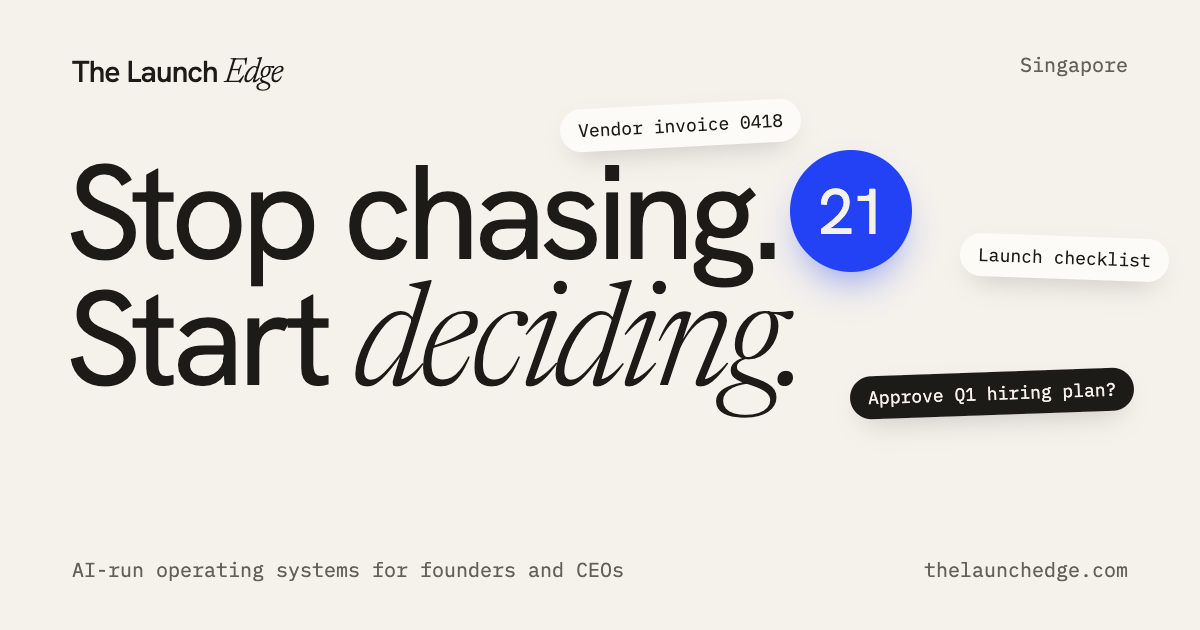
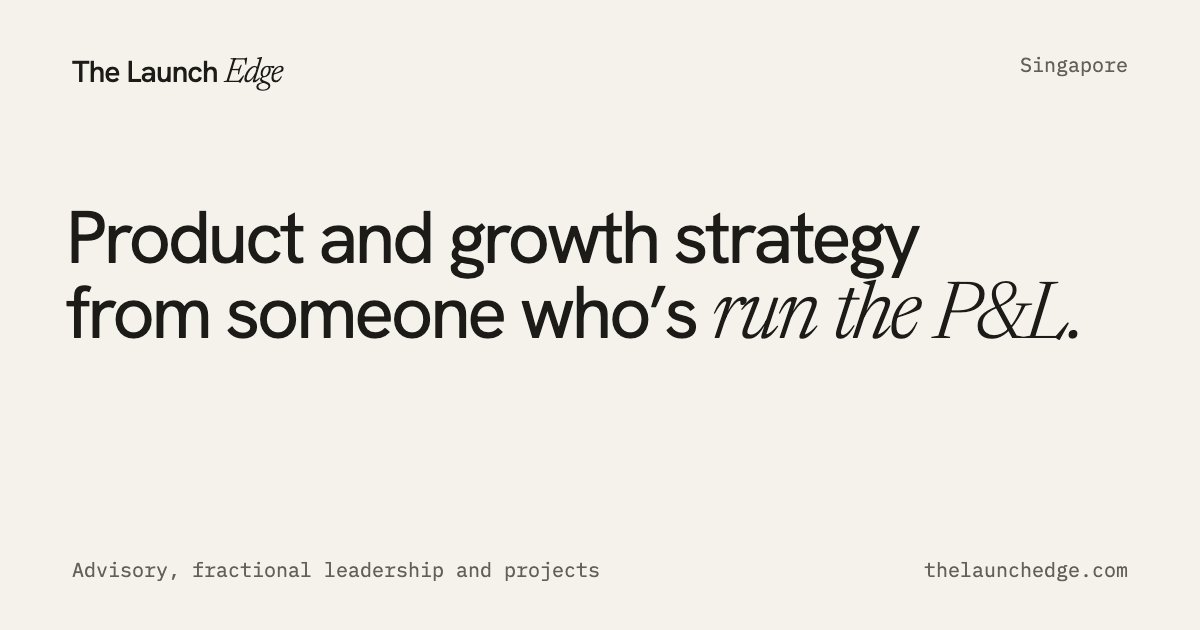
Copy: lead with growth; AI is Justin's behind-the-scenes advantage, not the offer. Cut the AI-brief section, FAQ + JSON-LD + meta + OG updated

diff --git a/public/index.html b/public/index.html
@@ -4,18 +4,18 @@
 <meta charset="utf-8" />
 <meta name="viewport" content="width=device-width, initial-scale=1" />
 <title>The Launch Edge — Justin · Product and growth strategist with P&amp;L experience</title>
-<meta name="description" content="Justin is a product and growth strategist with P&amp;L experience. Advisory, fractional leadership and projects for founders, CEOs and investors in Singapore." />
-<meta name="keywords" content="AI operating system for CEOs, AI agents for leadership teams, fractional CPO Singapore, fractional growth Singapore, founder operating system, market entry Southeast Asia" />
+<meta name="description" content="Justin is a product and growth strategist with P&amp;L experience. Advisory, fractional leadership and projects that grow revenue for founders and CEOs in Singapore." />
+<meta name="keywords" content="product and growth strategist Singapore, fractional growth Singapore, fractional CPO Singapore, growth advisory for founders, market entry Southeast Asia, P&amp;L turnaround" />
 <link rel="canonical" href="https://www.thelaunchedge.com/" />
 <meta property="og:type" content="website" />
 <meta property="og:title" content="The Launch Edge — Product and growth strategy from an operator who has run the P&amp;L" />
-<meta property="og:description" content="Justin is a product and growth strategist with P&amp;L experience. Advisory, fractional leadership and projects for founders, CEOs and investors." />
+<meta property="og:description" content="Product and growth strategy from an operator who has run the P&amp;L. Advisory, fractional leadership and projects that grow revenue." />
 <meta property="og:url" content="https://www.thelaunchedge.com/" />
 <meta property="og:site_name" content="The Launch Edge" />
 <meta property="og:image" content="https://www.thelaunchedge.com/uploads/og-default.png" />
 <meta name="twitter:card" content="summary_large_image" />
 <meta name="twitter:title" content="The Launch Edge — Product and growth strategy from an operator who has run the P&amp;L" />
-<meta name="twitter:description" content="Product and growth strategy from an operator who has owned the P&amp;L. Advisory, fractional leadership and projects." />
+<meta name="twitter:description" content="Product and growth strategy from an operator who has run the P&amp;L. You get the growth." />
 <meta name="twitter:image" content="https://www.thelaunchedge.com/uploads/og-default.png" />
 <script type="application/ld+json">{
   "@context": "https://schema.org",
@@ -25,10 +25,10 @@
       "@id": "https://www.thelaunchedge.com/#org",
       "name": "The Launch Edge",
       "url": "https://www.thelaunchedge.com",
-      "description": "AI-run leadership operating systems for founders and CEOs, plus fractional growth & product and market entry. Singapore.",
+      "description": "Product and growth strategy for founders and CEOs: advisory, fractional leadership and projects. Singapore.",
       "founder": { "@id": "https://www.thelaunchedge.com/#justin" },
       "areaServed": ["Singapore","Southeast Asia","Europe"],
-      "serviceType": ["Leadership operating systems","AI agents for leadership teams","Fractional growth","Fractional product","Market entry"],
+      "serviceType": ["Growth strategy","Product strategy","Fractional growth and product leadership","Market entry","Advisory"],
       "address": { "@type": "PostalAddress", "addressLocality": "Singapore", "addressCountry": "SG" }
     },
     {
@@ -49,11 +49,10 @@
     {
       "@type": "FAQPage",
       "mainEntity": [
-        { "@type": "Question", "name": "Is our data safe?", "acceptedAnswer": { "@type": "Answer", "text": "The system is set up in your company's own accounts, not mine. Nothing goes out without a person approving it, every action is logged, and you own all of it at handover." } },
-        { "@type": "Question", "name": "Do we need a tech team?", "acceptedAnswer": { "@type": "Answer", "text": "No. I set it up and train your team. If your people use email and a chat app, they can use this." } },
-        { "@type": "Question", "name": "How is this different from ChatGPT or Copilot?", "acceptedAnswer": { "@type": "Answer", "text": "Those tools wait for you to ask. This system goes through what is open every morning, chases owners, drafts replies and brings you only the decisions that need you, each with a recommendation." } },
-        { "@type": "Question", "name": "What does it cost, and how do we start?", "acceptedAnswer": { "@type": "Answer", "text": "Start with a free 30-minute call. Afterwards you get a one-page scope and a fixed quote in writing. It depends on the shape of the work and the size of the team. There's no hourly billing and no open-ended retainer unless you want one." } },
-        { "@type": "Question", "name": "Can you work traditionally, without the AI system?", "acceptedAnswer": { "@type": "Answer", "text": "Yes. Advisory, workshops, fractional leadership and projects need no AI at all. The AI-run operating system is one option, and only if it helps." } }
+        { "@type": "Question", "name": "Do I need to use AI?", "acceptedAnswer": { "@type": "Answer", "text": "No. That's my job. You get the growth, and your team keeps working the way it does today." } },
+        { "@type": "Question", "name": "Is our data safe?", "acceptedAnswer": { "@type": "Answer", "text": "You decide what I can see. I work under a written agreement, and nothing is shared or sent on your behalf without your approval." } },
+        { "@type": "Question", "name": "Can you work in the traditional way?", "acceptedAnswer": { "@type": "Answer", "text": "Yes. Advisory, workshops, fractional leadership and projects are how most engagements run. AI sits behind the scenes, and only where it helps you." } },
+        { "@type": "Question", "name": "What does it cost, and how do we start?", "acceptedAnswer": { "@type": "Answer", "text": "Start with a free 30-minute call. Afterwards you get a one-page scope and a fixed quote in writing. It depends on the shape of the work and the size of the team. There's no hourly billing and no open-ended retainer unless you want one." } }
       ]
     }
   ]
@@ -97,7 +96,7 @@
       <span class="l"><span class="w"><span class="t">from someone who’s <em>run the P&amp;L.</em></span></span></span>
     </h1>
     <div class="hero__foot">
-      <p class="lede" data-fade style="--d:.8s">I'm Justin, a product and growth strategist. I work with founders, CEOs and investors in whatever way fits: advisory, fractional leadership or hands-on projects.</p>
+      <p class="lede" data-fade style="--d:.8s">I'm Justin, a product and growth strategist. I help founders and CEOs grow revenue as an adviser, fractional leader or hands-on partner. AI does the heavy lifting behind the scenes, so you just see the growth.</p>
       <div class="hero__cta" data-fade style="--d:.95s">
         <a href="#contact" class="btn"><span>Book a free 30-min call</span><svg viewBox="0 0 24 24" aria-hidden="true"><path d="M5 12h14M13 6l6 6-6 6"/></svg></a>
         <a href="#how" class="link">Ways to work together</a>
@@ -133,7 +132,7 @@
       <li class="static" data-rise><span class="mono">Company</span><span class="t">The Launch Edge Pte. Ltd.</span><span class="d">The advisory practice behind this site, incorporated in Singapore in 2026.</span></li>
       <li data-rise><a href="https://claimback.app" target="_blank" rel="noopener"><span class="mono">Product</span><span class="t">ClaimBack <svg viewBox="0 0 24 24" aria-hidden="true"><path d="M7 17L17 7M8 7h9v9"/></svg></span><span class="d">Regulation-backed appeal letters for denied insurance claims, built and run solo.</span></a></li>
       <li data-rise><a href="https://fluentedge-three.vercel.app" target="_blank" rel="noopener"><span class="mono">Product</span><span class="t">FluentEdge <svg viewBox="0 0 24 24" aria-hidden="true"><path d="M7 17L17 7M8 7h9v9"/></svg></span><span class="d">A six-month, 180-lesson English programme for Indonesian professionals.</span></a></li>
-      <li class="static" data-rise><span class="mono">Systems</span><span class="t">An AI operating team</span><span class="d">Agents, bots and automations on my own server run much of my week. It's the same method I set up for clients.</span></li>
+      <li class="static" data-rise><span class="mono">Behind the scenes</span><span class="t">AI that does the heavy lifting</span><span class="d">Agents and automations on my own server handle the grunt work, so you get a bigger team's output, faster, for one senior fee.</span></li>
     </ul>
   </div>
 </section>
@@ -144,7 +143,7 @@
     <div class="svc-head">
       <h2 class="disp h2" data-split>However<br><em>you need me.</em></h2>
       <div>
-        <p class="lede" data-rise>Advisory, fractional or interim leadership, projects, and support for investors and their portfolios. Traditional consulting is first-class. The AI-run system is one option among the others, never a requirement.</p>
+        <p class="lede" data-rise>Advisory, fractional or interim leadership, projects, and support for investors and their portfolios. Everything is built around growth: revenue, customers, profit and launches. There is nothing new for your team to adopt.</p>
         <div class="tabs" role="group" aria-label="Show options for" data-rise>
           <button class="tab" aria-pressed="true" data-aud="all">Everyone</button>
           <button class="tab" aria-pressed="false" data-aud="f">Founders</button>
@@ -174,42 +173,11 @@
         <a class="opt" href="#contact" data-topic="Commercial and product due diligence" data-for="v"><span class="n">Commercial and product due diligence</span><span class="d">A clear read on a deal's growth engine, product and unit economics.</span><span class="go">Book a call <i aria-hidden="true">&rarr;</i></span></a>
         <a class="opt" href="#contact" data-topic="Operating partner or EIR-style help" data-for="v"><span class="n">Operating partner or EIR-style help</span><span class="d">Embedded help on a portfolio company's hardest problem.</span><span class="go">Book a call <i aria-hidden="true">&rarr;</i></span></a>
       </div></div>
-      <div class="grp" data-rise><h3 class="mono">AI-run operating system</h3><div class="opts">
-        <a class="opt" href="#contact" data-topic="Leadership operating system" data-for="f c"><span class="n">Leadership operating system</span><span class="d">One of the options, not the requirement. A morning brief, decisions with a recommendation and owners chased for you. Six weeks, fixed fee, handed over.</span><span class="go">Book a call <i aria-hidden="true">&rarr;</i></span></a>
+      <div class="grp" data-rise><h3 class="mono">Optional extra</h3><div class="opts">
+        <a class="opt" href="#contact" data-topic="Leadership operating system" data-for="f c"><span class="n">Leadership operating system</span><span class="d">For leadership teams who want a tighter weekly rhythm: a morning brief, decisions with a recommendation, owners chased for you. Six weeks, fixed fee, handed over.</span><span class="go">Book a call <i aria-hidden="true">&rarr;</i></span></a>
       </div></div>
     </div>
     <p class="also" data-rise>Every engagement has a fixed scope and a fixed quote, in writing. Not sure which fits? <a href="#contact" data-topic="Not sure yet">Start with a free 30-minute call</a>.</p>
-  </div>
-</section>
-
-<!-- 3. THE MORNING BRIEF (the AI-run option) -->
-<section class="decide" id="decide" aria-labelledby="dec-h">
-  <div class="wrap">
-    <div class="decide__head">
-      <h2 class="disp h2" id="dec-h" data-split>Stop chasing.<br><em>Start deciding.</em></h2>
-      <p class="lede" data-rise>The AI-run option, and how I run my own team. Every morning the agents close what's finished, chase what's late and draft what's due. What reaches you is only what needs you, each with a recommendation.</p>
-    </div>
-    <div class="cards">
-      <article class="card" data-rise>
-        <span class="mono">Hiring</span>
-        <h3>Approve the Q1 hiring plan?</h3>
-        <p class="why">Finance flags it S$18k over budget. Two of three roles are on the critical path.</p>
-        <p class="rec"><b>Recommend:</b> approve 2 roles now, revisit the third in February.</p>
-      </article>
-      <article class="card" data-rise style="--rd:.1s">
-        <span class="mono">Partnerships</span>
-        <h3>Jakarta distributor wants exclusivity.</h3>
-        <p class="why">Draft reply ready. Legal reviewed the terms yesterday.</p>
-        <p class="rec"><b>Recommend:</b> 6-month trial, non-exclusive.</p>
-      </article>
-      <article class="card" data-rise style="--rd:.2s">
-        <span class="mono">Operations</span>
-        <h3>Launch slipped a week. Ops hasn't replied in 3 days.</h3>
-        <p class="why">Agents chased twice. No answer yet.</p>
-        <p class="rec"><b>Recommend:</b> a 10-minute call with the ops lead today.</p>
-      </article>
-    </div>
-    <p class="mono cap">Illustration: one sample morning at a 60-person company.</p>
   </div>
 </section>
 
@@ -233,8 +201,8 @@
   <div class="wrap about__grid">
     <div class="portrait" data-reveal-img><img src="/uploads/justin.jpg" alt="Justin" width="640" height="640" loading="lazy" decoding="async" /></div>
     <div>
-      <h2 class="disp h2" data-split>Operator first.<br><em>Then the system.</em></h2>
-      <p class="say" data-rise>I'm Justin, a product and growth strategist with P&amp;L experience. I've led growth and product as a C-level executive, started my own gear brand and web studio, and run my own week on the same AI-run system I build for clients.</p>
+      <h2 class="disp h2" data-split>Hands-on,<br><em>from day one.</em></h2>
+      <p class="say" data-rise>I'm Justin, a product and growth strategist with P&amp;L experience. I've led growth and product as a C-level executive, and started my own gear brand and web studio. When I work with you, I'm in the work, not above it.</p>
       <p class="say" data-rise>You work with me directly. No junior team, no hand-off.</p>
       <p class="creds mono">Gotrade (YC S19) · Delivery Hero · Singapore EDB · NUS · Wharton</p>
       <a data-rise class="sister" href="https://justincreativestudios.com/?utm_source=thelaunchedge&amp;utm_medium=site&amp;utm_campaign=about" target="_blank" rel="noopener">
@@ -258,11 +226,10 @@
       </div>
     </div>
     <div>
-      <details open><summary>Is our data safe?</summary><p>The system is set up in your company's own accounts, not mine. Nothing goes out without a person approving it, every action is logged, and you own all of it at handover. We agree in writing what the agents can and can't touch.</p></details>
-      <details><summary>Do we need a tech team?</summary><p>No. I set it up and train your team. If your people use email and a chat app, they can use this.</p></details>
-      <details><summary>How is this different from ChatGPT or Copilot?</summary><p>Those tools wait for you to ask. This system goes through what's open every morning, chases the owners, drafts the replies and brings you only the decisions that need you, each with options and a recommendation.</p></details>
+      <details open><summary>Do I need to use AI?</summary><p>No. That's my job. You get the growth, and your team keeps working the way it does today.</p></details>
+      <details><summary>Is our data safe?</summary><p>You decide what I can see. I work under a written agreement, and nothing is shared or sent on your behalf without your approval.</p></details>
+      <details><summary>Can you work in the traditional way?</summary><p>Yes. Advisory, workshops, fractional leadership and projects are how most engagements run. AI sits behind the scenes, and only where it helps you.</p></details>
       <details><summary>What does it cost, and how do we start?</summary><p>Start with a free 30-minute call. Afterwards you get a one-page scope and a fixed quote in writing. It depends on the shape of the work and the size of the team. There's no hourly billing and no open-ended retainer unless you want one.</p></details>
-      <details><summary>Can you work traditionally, without the AI system?</summary><p>Yes. Advisory, workshops, fractional leadership and projects need no AI at all. The AI-run operating system is one option, and only if it helps.</p></details>
     </div>
   </div>
 </section>
@@ -270,7 +237,7 @@
 <!-- 7. CONTACT -->
 <section class="sec contact" id="contact">
   <div class="wrap">
-    <h2 class="disp" data-split>Get your<br>week <em>back.</em></h2>
+    <h2 class="disp" data-split>Let's grow<br>the <em>business.</em></h2>
     <div class="contact__grid">
       <div>
         <p class="lede" style="margin-bottom:28px">A free 30-minute call. Tell me what's stuck and I'll say honestly whether I can help.</p>

diff --git a/public/home.css b/public/home.css
@@ -315,3 +315,6 @@ html:not(.js) .hero__hintX { display: none; }
 .wa-pill:hover { background: var(--ink); color: var(--paper); }
 .wa-pill.hide { transform: translateY(24px); opacity: 0; pointer-events: none; }
 @media (max-width: 699px) { .wa-pill { width: 52px; height: 52px; padding: 0; justify-content: center; } .wa-pill span { display: none; } .wa-pill .wa-ic { width: 24px; height: 24px; } }
+
+.hero__foot { max-width: 800px; }
+.hero__foot .lede { max-width: 66ch; }
